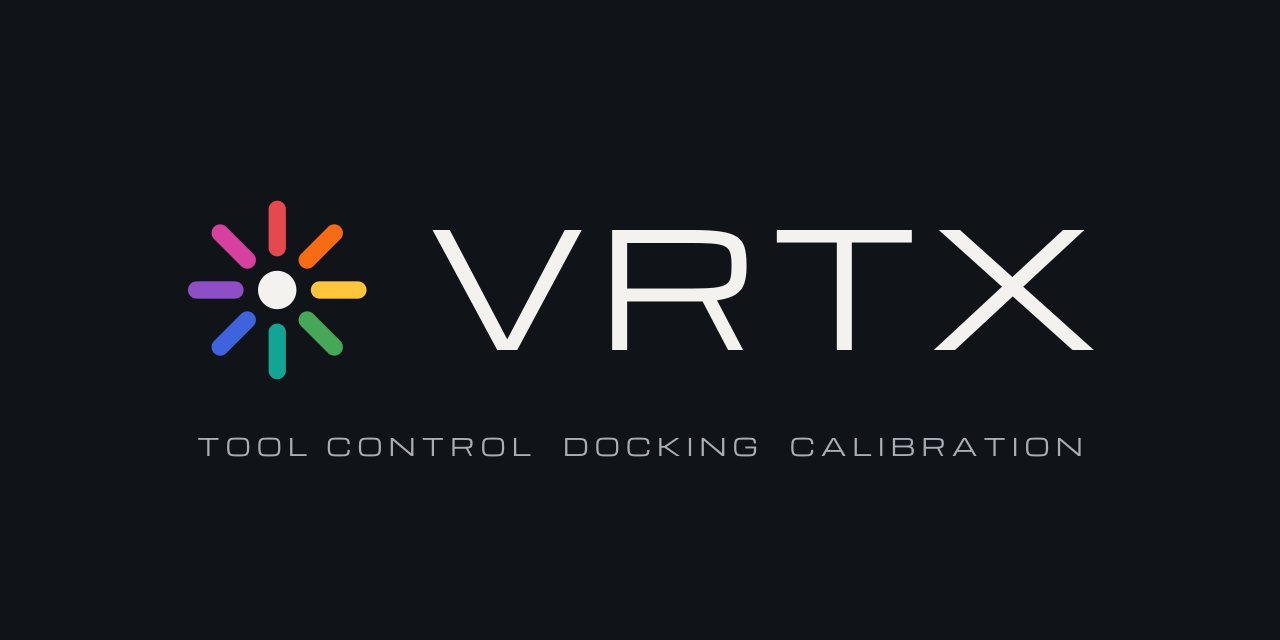
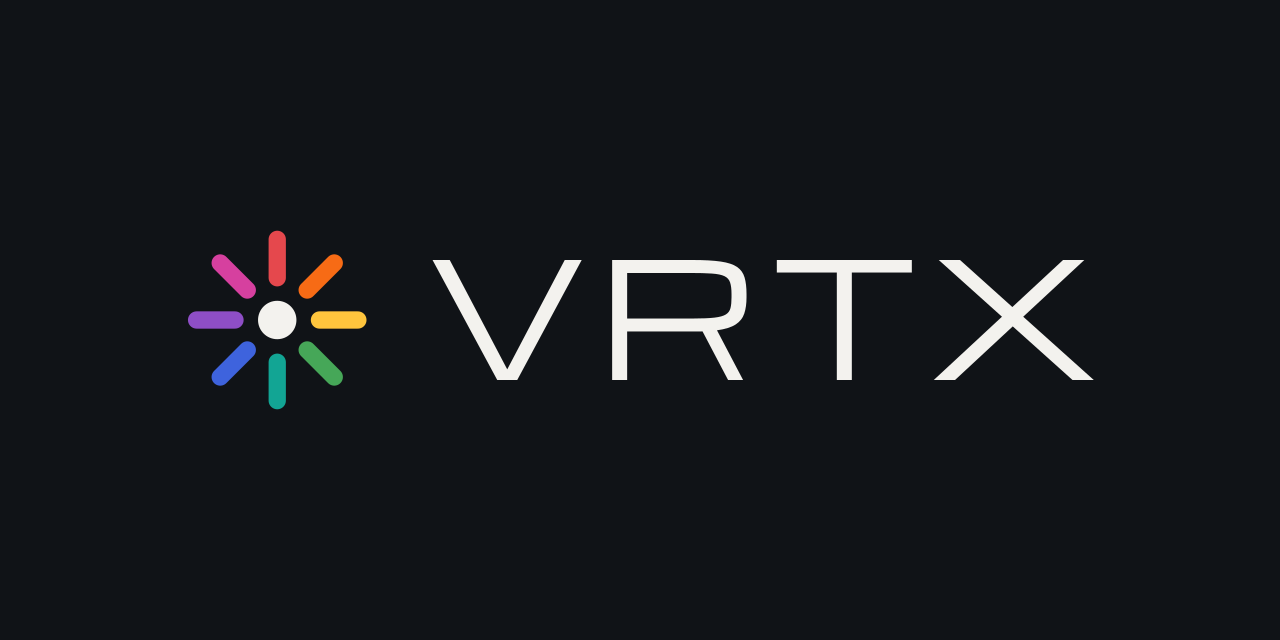
Drop the tagline: plain VRTX title and social preview
Claude-Session: https://claude.ai/code/session_01D67f5CPPvYTYgBRHvjTwjD

diff --git a/README.md b/README.md
@@ -5,7 +5,7 @@
   </picture>
 </p>
 
-# VRTX: tool control, docking and calibration for tool changers
+# VRTX
 
 One package for the tools of a tool changer on Klipper and Kalico: calibration, tool control and docking.
 Every nozzle touches a small probe, the macros turn the touch points into the X, Y and Z offsets of each tool,
